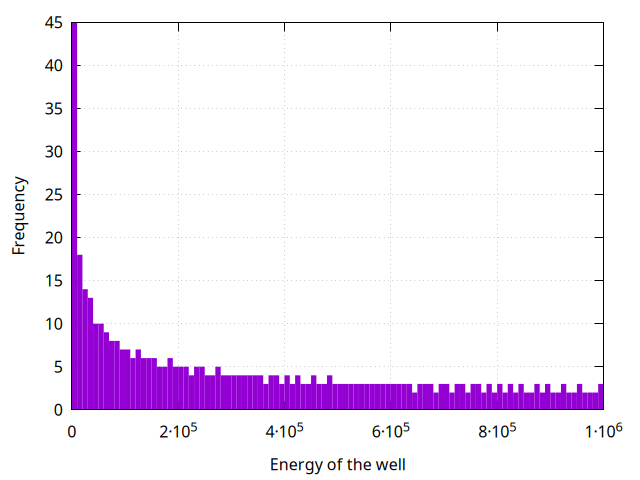
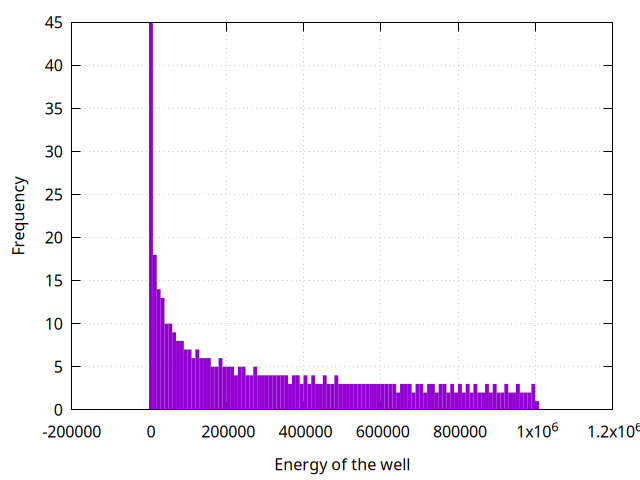
fix

diff --git a/quantum_chaos/src/main.rs b/quantum_chaos/src/main.rs
@@ -10,28 +10,34 @@ fn calculate_well_energies(a: f64, b: f64, emax: f64) -> Result<(), std::io::Err
     let mut file = std::fs::File::create("generated_data/well_energies.txt")?;
 
     while energy < emax {
+        energy = 0.0;
         while energy < emax {
             energy = well_energy(n1, n2, a, b);
             writeln!(file, "{}", energy)?;
             n2 += 1;
         }
+        n2 = 1;
         n1 += 1;
     }
     Ok(())
 }
+
 fn calculate_well_energy_differences(a: f64, b: f64, emax: f64) -> Result<(), std::io::Error> {
     let mut n1: i64 = 1;
     let mut n2: i64 = 1;
     let mut energy1: f64 = 0.;
     let mut energy2: f64 = 0.;
-    let mut file = std::fs::File::create("generated_data/well_energy_differences.txt")?;
+    let mut file = std::fs::File::create("generated_data/ps.txt")?;
 
     while energy1 < emax {
         energy1 = well_energy(n1, n1, a, b);
+        n2 = n1;
+        energy2 = 0.;
         while energy2 < emax {
-            energy2 = well_energy(n1, n2+1, a, b);
-            let energy_dif = energy2 - energy1;
-            writeln!(file, "{}", energy_dif)?;
+            energy2 = well_energy(n1, n2 + 1, a, b);
+            let s: f64 = energy2 - energy1;
+
+            writeln!(file, "{}", s)?;
             n2 += 1;
             energy1 = energy2;
         }
@@ -41,12 +47,14 @@ fn calculate_well_energy_differences(a: f64, b: f64, emax: f64) -> Result<(), st
 }
 
 
+
+
 fn main() {
     // set well parameters
     let a: f64 = (PI / 3.0).sqrt();
     let b: f64 = 1.0;
     // set the criteria for the energy histogram
-    let emax: f64 = 1e7;
+    let emax: f64 = 1e6;
 
     // generate the energy histogram data
     match calculate_well_energies(a, b, emax) {
@@ -59,4 +67,5 @@ fn main() {
         Ok(()) => println!("Energy differences calculated successfully."),
         Err(e) => eprintln!("Error occurred: {}", e),
     }
+    
 }
